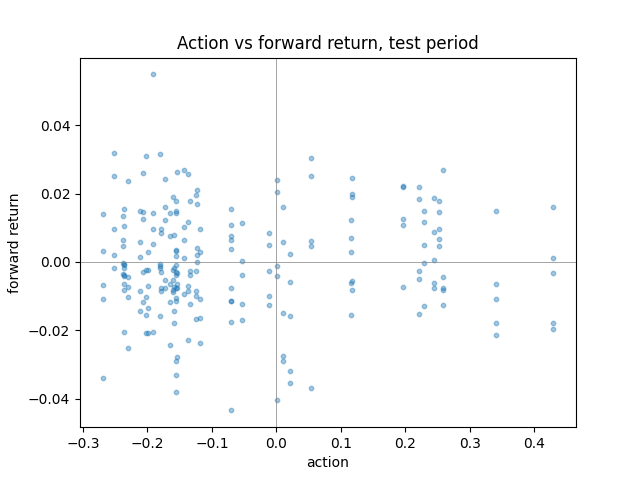
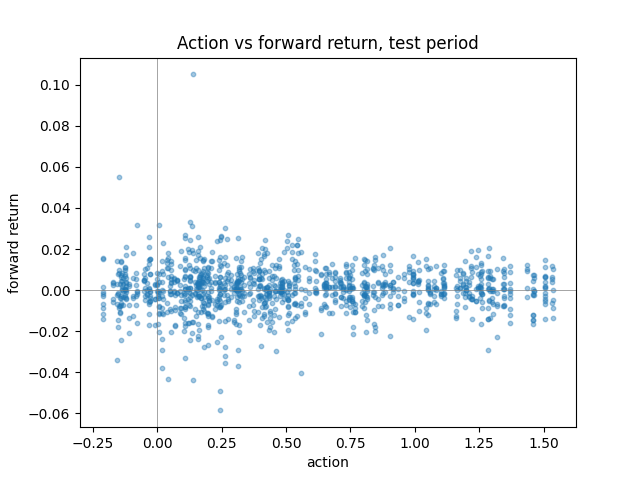
commit

diff --git a/market_data.py b/market_data.py
@@ -4,6 +4,8 @@ import pandas as pd
 import torch
 import seaborn as sns
 import matplotlib.pyplot as plt
+from sklearn.decomposition import PCA
+from sklearn.preprocessing import StandardScaler
 
 ROLL_WINDOW = 504
 MIN_PERIODS = 252
@@ -92,17 +94,12 @@ feature_dict = {"rv21": rv21_z,"rv30": rv30_z,"rv91": rv91_z,"term_str": term_z,
 
 features = pd.concat(feature_dict.values(), axis=1)
 features.columns = list(feature_dict.keys())
-matrix = features.corr(method="pearson")
-sns.heatmap(matrix, annot=False, cmap="coolwarm",vmin=-1,vmax=1)
-plt.title('Correlation Matrix Heatmap')
-plt.show()
-
 data = pd.concat([features, ret_fwd.rename("ret_fwd")], axis=1).dropna()
 features = data.iloc[:, :-1]
 ret_fwd = data.iloc[:, -1]
 
-train_end = "2021-12-31"
-val_end = "2023-01-01"
+train_end = "2017-12-31"
+val_end = "2021-01-01"
 
 train_idx = features.index < train_end
 valid_idx = (features.index >= train_end) & (features.index < val_end)

diff --git a/hedge_env_LSTM.py b/hedge_env_LSTM.py
@@ -98,7 +98,7 @@ class HedgeEnvEval(HedgeEnv):
         terminated = self.t >= len(self.y) - 1
         return obs, period_rew, terminated, False, {}
 
-test_env = HedgeEnvEval(window, n_features, X_valid, y_valid, a_max)
+test_env = HedgeEnvEval(window, n_features, X_test, y_test, a_max)
 obs, _ = test_env.reset()
 done = False
 rewards, actions = [], []
@@ -140,7 +140,7 @@ plt.savefig("equity.png")
 plt.show()
 
 actions = np.array(actions)
-y_test_realized = y_valid.numpy()[window - 1: window - 1 + len(actions)]
+y_test_realized = y_test.numpy()[window - 1: window - 1 + len(actions)]
 corr = np.corrcoef(actions, y_test_realized)[0,1]
 print("Correlation(action, forward return):", corr)
 